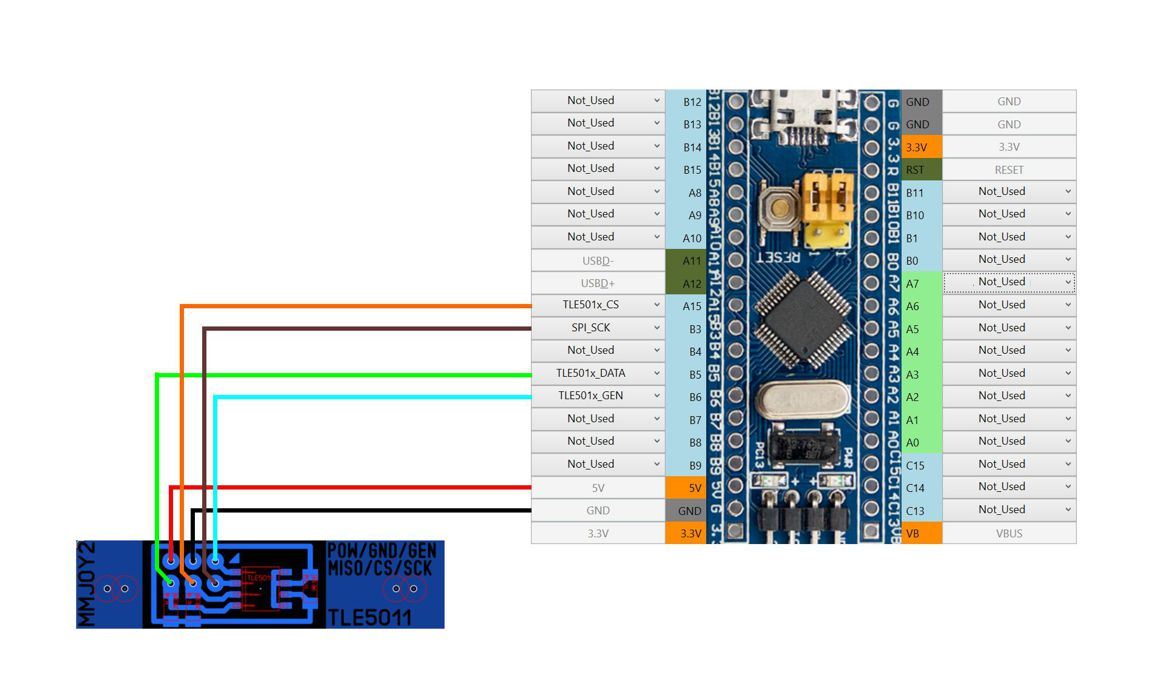
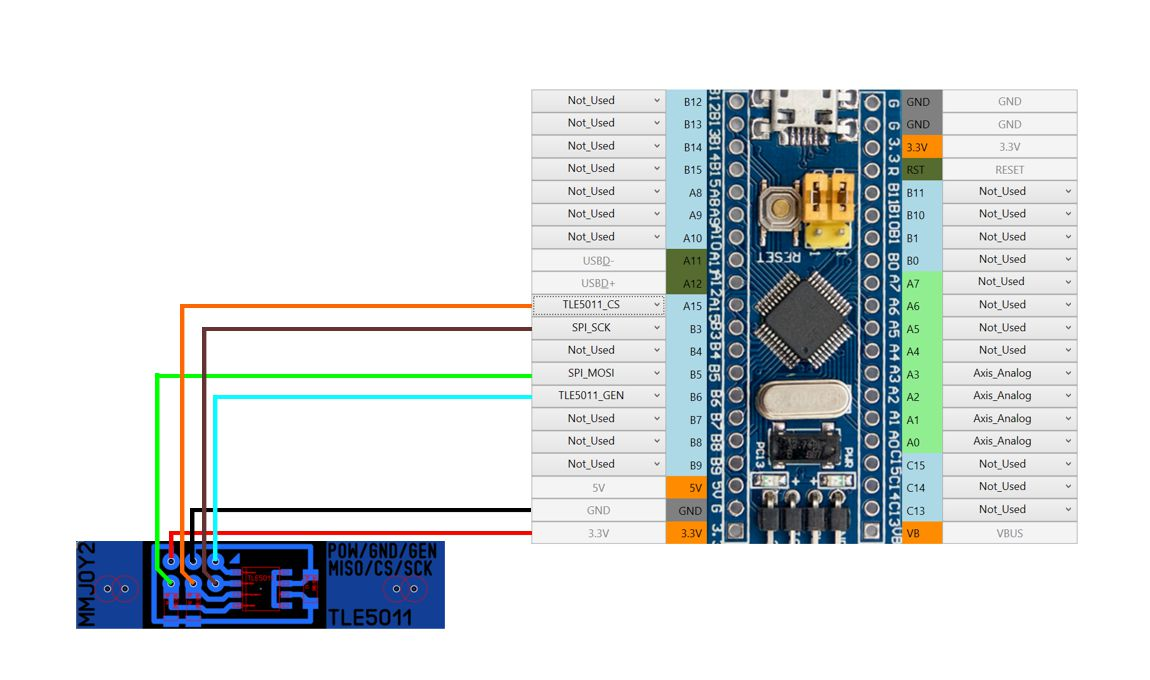
Добавил адресацию ADS1115, правка рисунка TLE5011

diff --git a/rus/Подключение-аналоговых-датчиков-через-внешний-АЦП-ADS1115.md b/rus/Подключение-аналоговых-датчиков-через-внешний-АЦП-ADS1115.md
@@ -1,15 +1,24 @@
 ADS1115 - четырех канальный аналогово-цифровой преобразователь (АЦП). Работает по интерфейсу I2C.
 
 ![](../images/A1.5.jpg)
- 
+
 * I2C_SCL – Общий для всех устройств I2C (AS5600 и АЦП ADS1115)
 * I2C_SDA – Общий для всех устройств I2C (AS5600 и АЦП ADS1115)
 
 Как видно из рисунка выше АЦП можно купить уже распаянными на плату. К контроллеру можно подключить до четырех ADS1115 (при этом необходимо учитывать, что общее количество осей не должно превышать восьми). Для этого необходимо задать разные адреса устройствам. Это делается соединением вывода ADDR c другими выводами платы. Всего доступно 4 адреса: 
 
-![](../images/A1.5.1.jpg)
 
-Заданные платам адреса необходимо запомнить, т.к. потом они будут использоваться при настройке осей.
+
+| Подключение вывода ADDR | Адрес микросхемы ADS1115 |
+| ----------------------- | ------------------------ |
+| GND                     | 1001000                  |
+| VDD                     | 1001001                  |
+| SDA                     | 1001010                  |
+| SCL                     | 1001011                  |
+
+
+
+Заданные платам адреса необходимо запомнить, т.к. потом они будут использоваться при [настройке осей](Настройка-осей.md).
 
 В качестве источника аналогового сигнала могут использоваться [переменные резисторы](Подключение-переменных-резисторов.md) как на рисунке в начале страницы,  [датчики Холла](Подключение-датчиков-Холла.md) и любые другие аналоговые датчики, которые имеют выходной сигнал от 0 до 3,3В.
 
